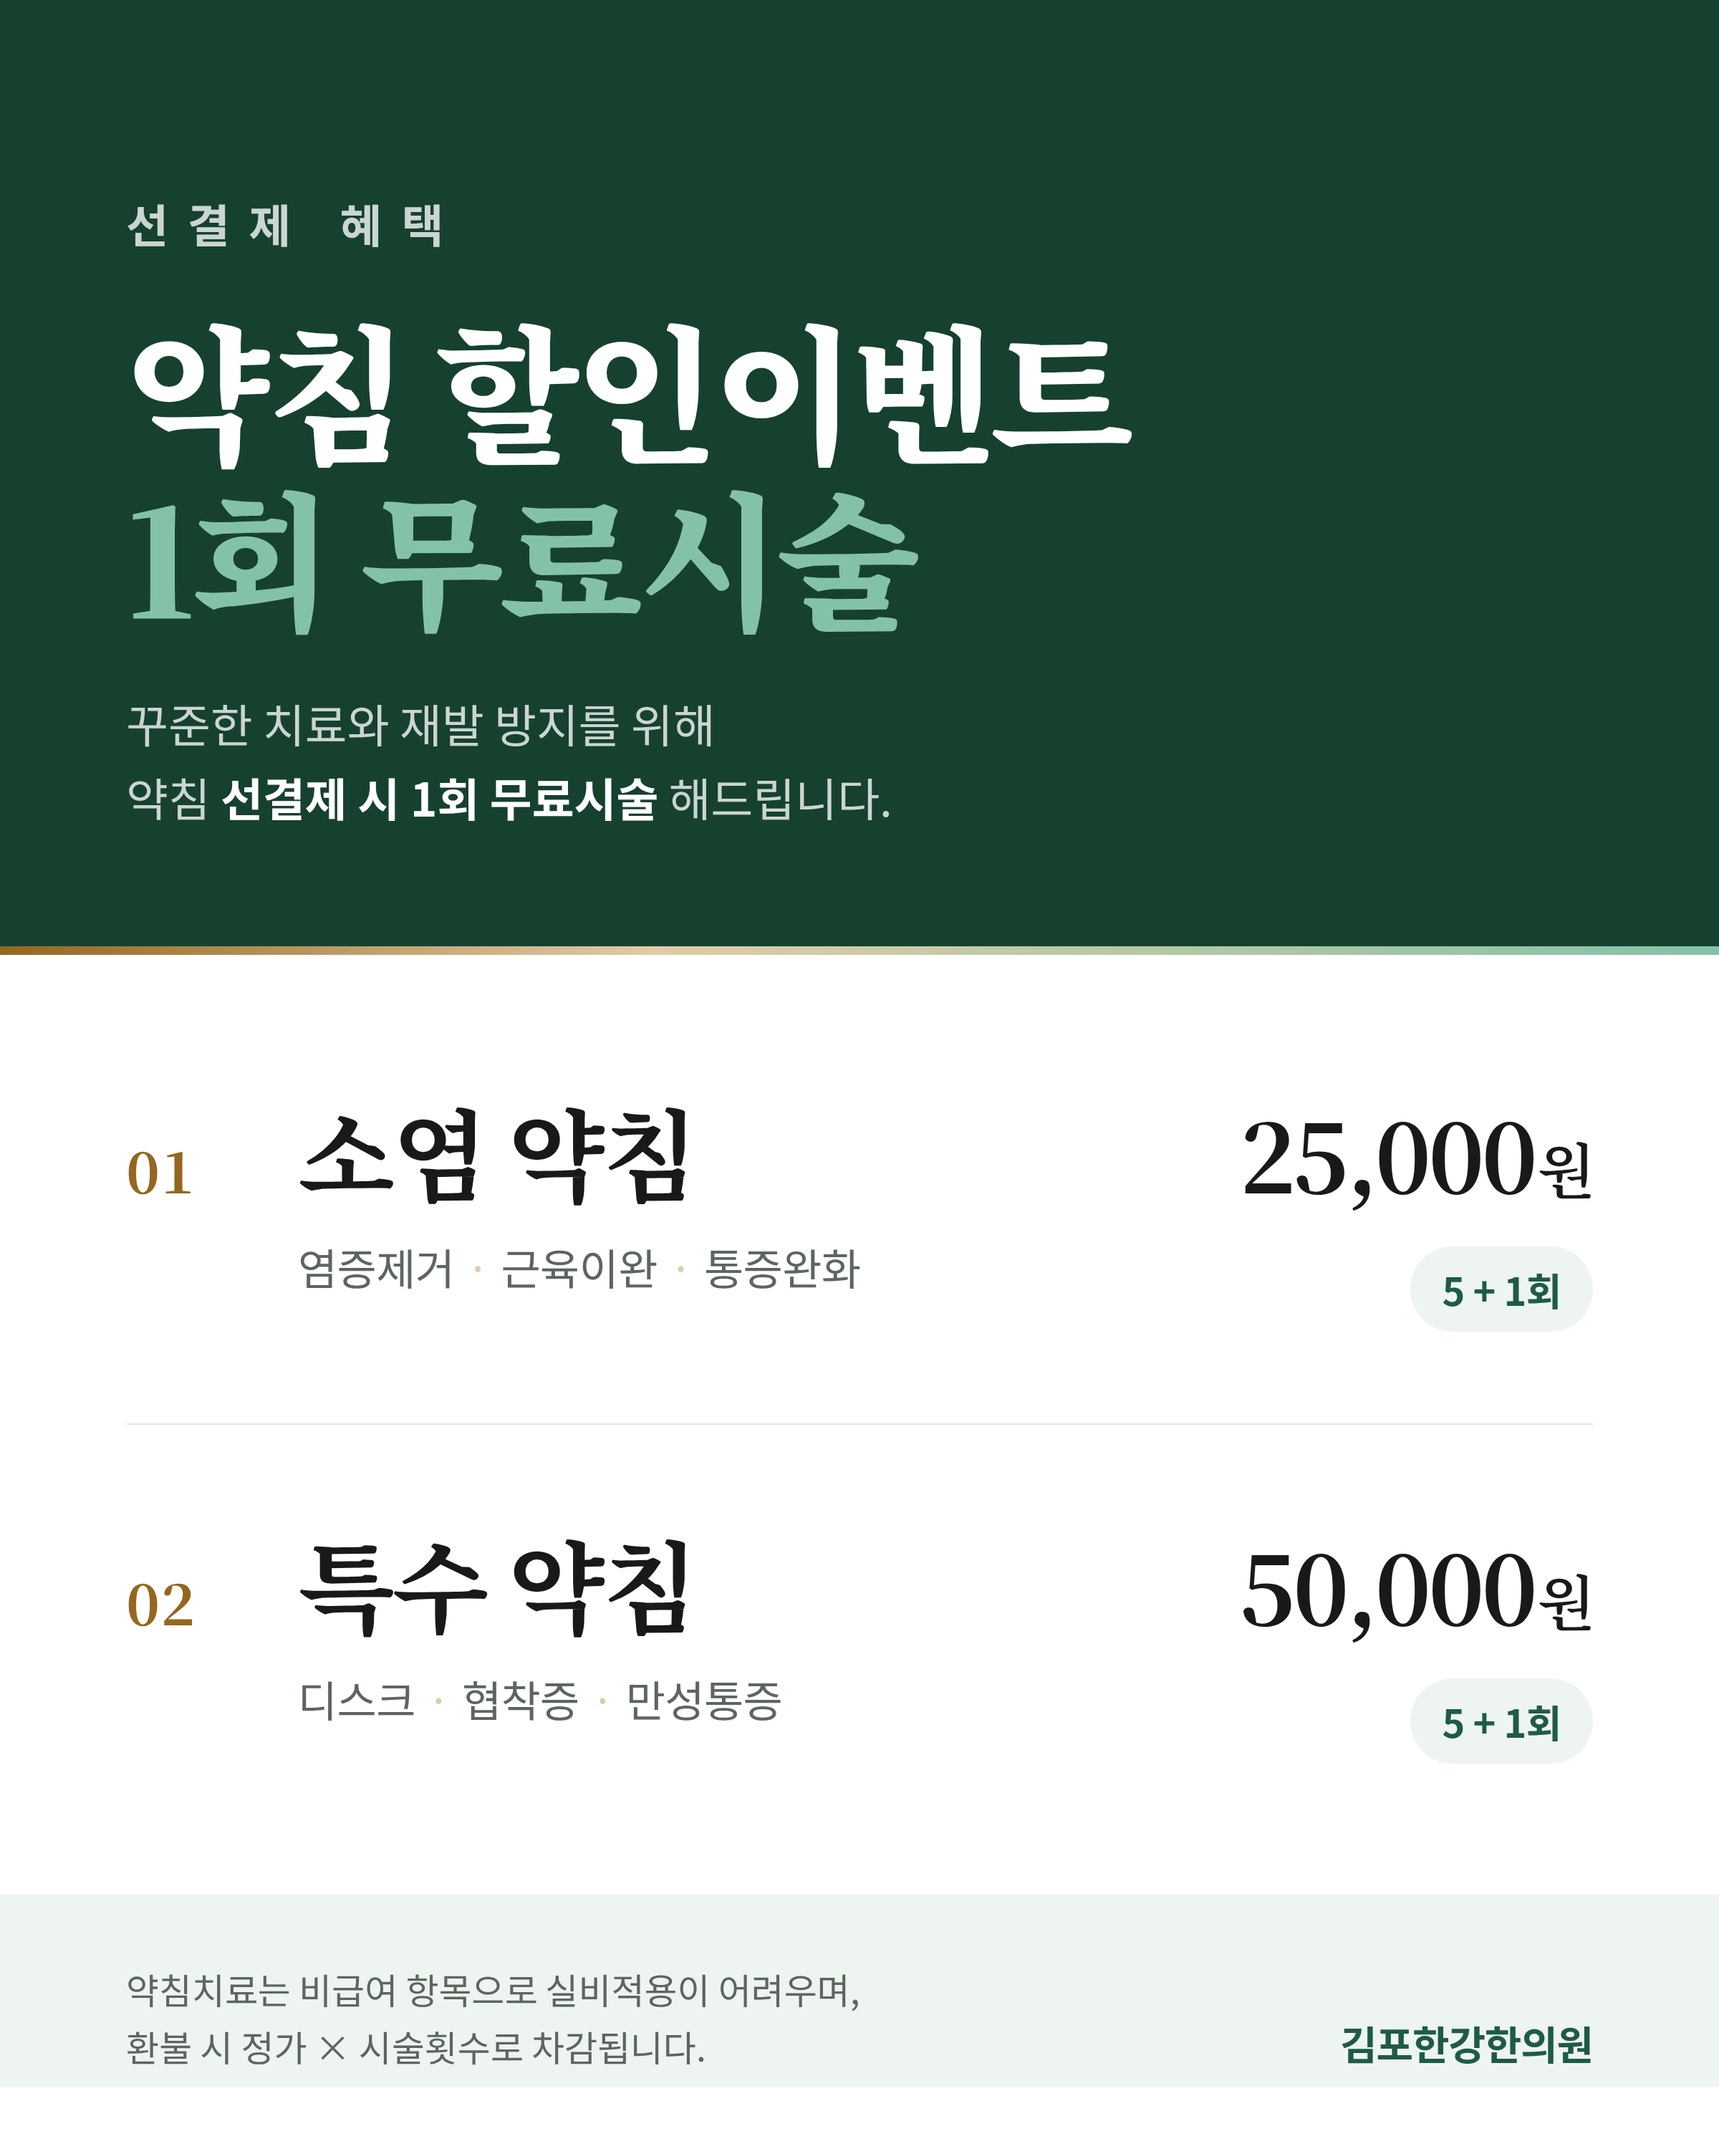
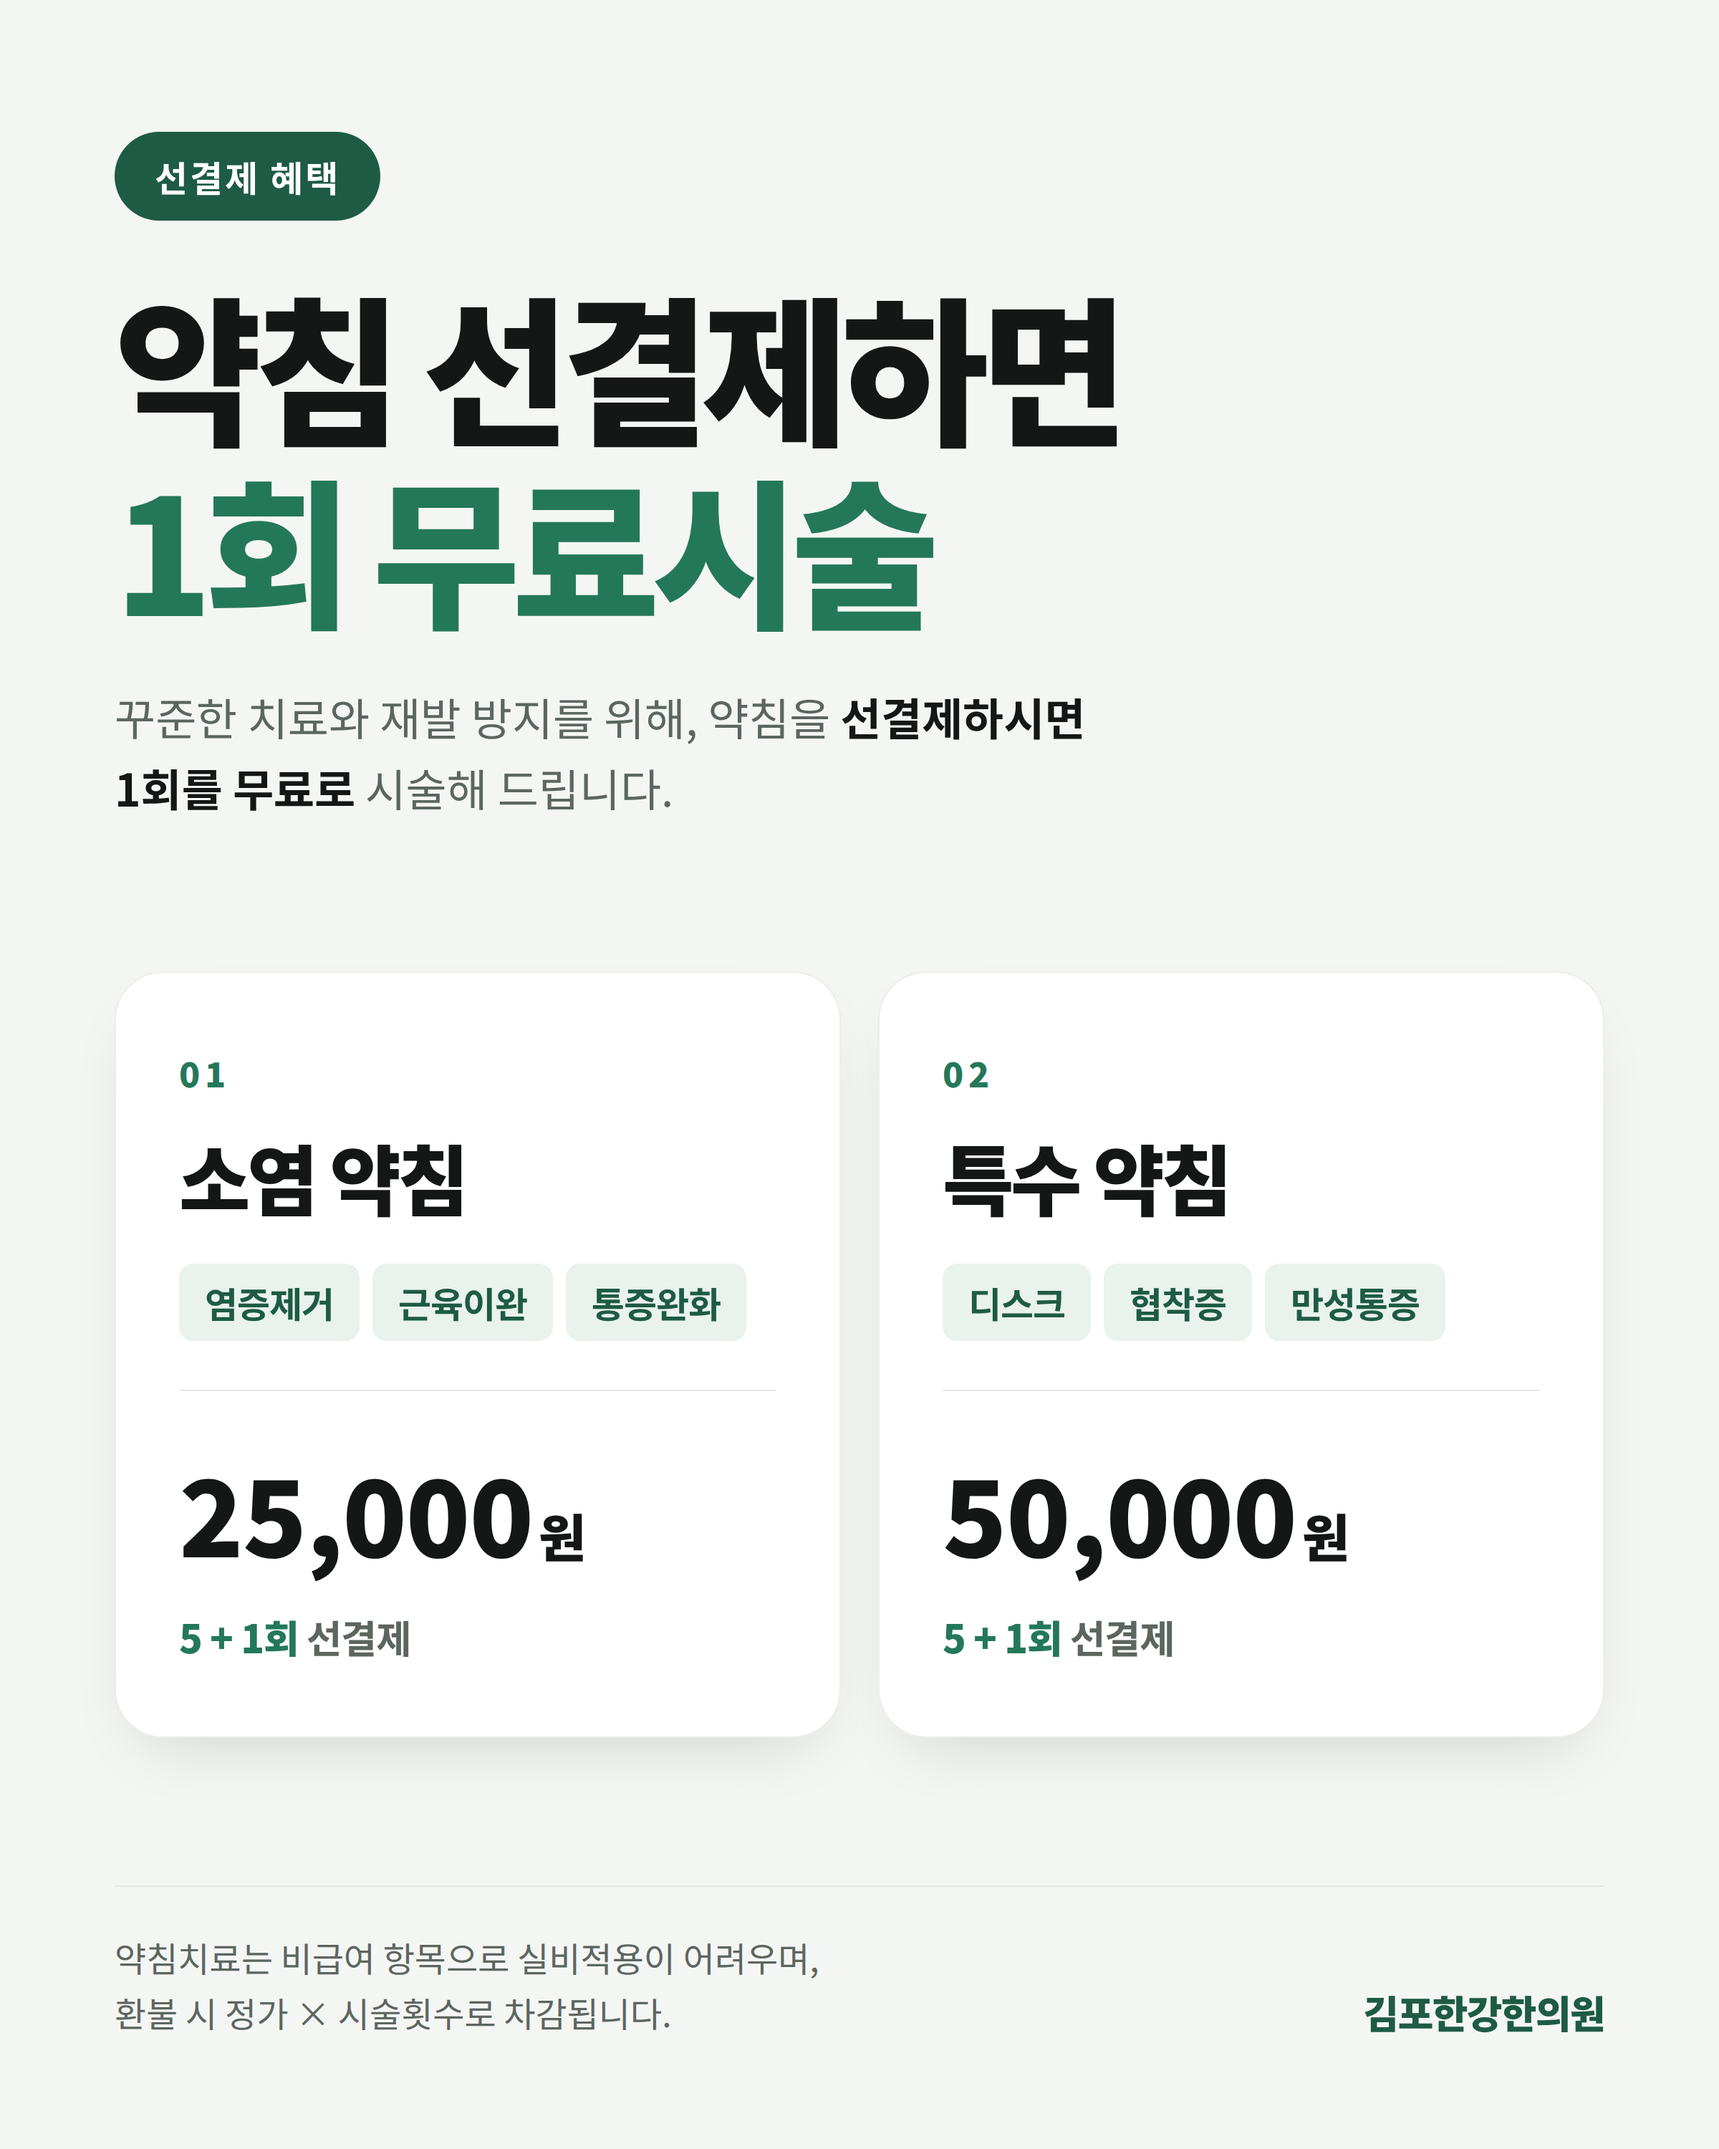
약침 안내 이미지, 고딕 한 벌로 다시 디자인
명조 제목과 짙은 옥색 판이 옛날 안내문처럼 읽혀 전부 걷어냈다.

- 글꼴은 고딕(Noto Sans KR) 한 벌. 제목은 900에 자간 -0.05em
- 시술 두 가지를 흰 카드 두 장으로 나란히, 효능은 태그로
- 배경은 밝은 회녹색, 강조는 옥색 한 가지로만

Claude-Session: https://claude.ai/code/session_017DGhBSAmjkVB1vRVfDZGb9

diff --git a/tools/poster/yakchim-event.html b/tools/poster/yakchim-event.html
@@ -2,24 +2,20 @@
 <meta charset="utf-8">
 <title>약침 할인이벤트</title>
 <style>
-  @font-face { font-family: "KRSans"; src: url("file:///root/.fonts/NotoSansKR-400.ttf"); font-weight: 400; }
-  @font-face { font-family: "KRSans"; src: url("file:///root/.fonts/NotoSansKR-700.ttf"); font-weight: 700; }
-  @font-face { font-family: "KRSerif"; src: url("file:///root/.fonts/NotoSerifKR-400.ttf"); font-weight: 400; }
-  @font-face { font-family: "KRSerif"; src: url("file:///root/.fonts/NotoSerifKR-600.ttf"); font-weight: 600; }
-  @font-face { font-family: "KRSerif"; src: url("file:///root/.fonts/NotoSerifKR-700.ttf"); font-weight: 700; }
-  @font-face { font-family: "KRSerif"; src: url("file:///root/.fonts/NotoSerifKR-900.ttf"); font-weight: 900; }
+  @font-face { font-family: "KR"; src: url("file:///root/.fonts/NotoSansKR-400.ttf"); font-weight: 400; }
+  @font-face { font-family: "KR"; src: url("file:///root/.fonts/NotoSansKR-700.ttf"); font-weight: 700; }
+  @font-face { font-family: "KR"; src: url("file:///root/.fonts/NotoSansKR-900.ttf"); font-weight: 900; }
 
   :root {
-    --paper: #ffffff;
-    --ink: #171a18;
+    --paper: #f4f6f4;
+    --card: #ffffff;
+    --ink: #141715;
     --muted: #5c665f;
-    --line: #e6e8e3;
+    --faint: #8d958f;
+    --line: #e4e8e3;
     --herb: #1e5b45;
-    --herb-deep: #16412f;
-    --herb-light: #84c2a7;
-    --tint: #eef4f0;
-    --ochre: #95661f;
-    --ochre-line: #e0cca6;
+    --herb-bright: #24785a;
+    --tint: #e9f2ec;
   }
   html { zoom: 2; }
   * { box-sizing: border-box; margin: 0; padding: 0; }
@@ -27,119 +23,100 @@
     width: 1200px; height: 1500px;
     background: var(--paper);
     color: var(--ink);
-    font-family: "KRSans", "Pretendard", system-ui, sans-serif;
+    font-family: "KR", "Pretendard", system-ui, sans-serif;
     -webkit-font-smoothing: antialiased;
     word-break: keep-all;
+    padding: 92px 80px 76px;
     display: flex; flex-direction: column;
   }
-  .serif { font-family: "KRSerif", "Noto Serif KR", serif; }
 
-  /* ── 머리말: 짙은 옥색 판 ───────────────────────────── */
-  .head {
-    background: var(--herb-deep);
-    color: #fff;
-    padding: 96px 88px 84px;
-    position: relative;
-  }
-  .head::after {
-    content: ""; position: absolute; left: 0; right: 0; bottom: 0; height: 6px;
-    background: linear-gradient(90deg, var(--ochre) 0%, var(--ochre-line) 38%, var(--herb-light) 100%);
-  }
-  .eyebrow {
-    font-size: 26px; font-weight: 700; letter-spacing: 0.42em;
-    color: var(--herb-light); text-transform: none;
+  /* ── 머리말 ────────────────────────────────────────── */
+  .badge {
+    align-self: flex-start;
+    background: var(--herb); color: #fff;
+    font-size: 25px; font-weight: 700; letter-spacing: 0.06em;
+    padding: 13px 28px; border-radius: 999px;
   }
   h1 {
+    margin-top: 36px;
+    font-size: 112px; font-weight: 900; line-height: 1.14; letter-spacing: -0.05em;
+  }
+  h1 em { font-style: normal; color: var(--herb-bright); }
+  .sub {
     margin-top: 30px;
-    font-size: 104px; font-weight: 900; line-height: 1.12; letter-spacing: -0.035em;
+    font-size: 31px; font-weight: 400; line-height: 1.6; color: var(--muted);
+    max-width: 24em;
   }
-  h1 em { font-style: normal; color: var(--herb-light); }
-  .head p {
-    margin-top: 34px;
-    font-size: 32px; line-height: 1.62; color: rgba(255, 255, 255, 0.78);
-    max-width: 20em;
-  }
-  .head p b { color: #fff; font-weight: 700; }
+  .sub b { font-weight: 700; color: var(--ink); }
 
-  /* ── 본문: 시술 두 가지 ─────────────────────────────── */
-  .list { flex: 1; min-height: 0; padding: 0 88px; display: flex; flex-direction: column; justify-content: center; }
-  .item {
-    display: grid;
-    grid-template-columns: 96px 1fr auto;
-    align-items: baseline;
-    column-gap: 24px;
-    padding: 64px 0;
+  /* ── 시술 두 가지 ──────────────────────────────────── */
+  .cards {
+    margin-top: auto; margin-bottom: auto;
+    display: grid; grid-template-columns: 1fr 1fr; gap: 26px;
   }
-  .item + .item { border-top: 1px solid var(--line); }
-
-  .num {
-    font-size: 40px; font-weight: 700; color: var(--ochre);
-    letter-spacing: 0.02em;
+  .card {
+    background: var(--card);
+    border: 1px solid #eceeea;
+    border-radius: 34px;
+    padding: 52px 44px 50px;
+    box-shadow: 0 20px 48px -22px rgba(20, 23, 21, 0.18);
+    display: flex; flex-direction: column;
   }
-  .name { font-size: 70px; font-weight: 700; letter-spacing: -0.03em; line-height: 1.1; }
-  .for {
-    margin-top: 20px;
-    font-size: 30px; line-height: 1.5; color: var(--muted); letter-spacing: -0.01em;
+  .card .no {
+    font-size: 24px; font-weight: 900; letter-spacing: 0.14em; color: var(--herb-bright);
   }
-  .for span { white-space: nowrap; }
-  .for i { font-style: normal; color: var(--ochre-line); padding: 0 8px; }
-
-  .cost { text-align: right; white-space: nowrap; }
-  .cost .won { font-size: 66px; font-weight: 700; letter-spacing: -0.03em; }
-  .cost .won u { text-decoration: none; font-size: 42px; font-weight: 600; padding-left: 2px; }
-  .cost .pack {
-    display: inline-block; margin-top: 18px;
+  .card h2 {
+    margin-top: 16px;
+    font-size: 54px; font-weight: 900; letter-spacing: -0.04em;
+  }
+  .tags { margin-top: 22px; display: flex; flex-wrap: wrap; gap: 9px; }
+  .tags span {
     background: var(--tint); color: var(--herb);
-    border-radius: 999px; padding: 10px 22px;
-    font-size: 27px; font-weight: 700; letter-spacing: -0.01em;
+    font-size: 25px; font-weight: 700; letter-spacing: -0.02em;
+    padding: 9px 18px; border-radius: 10px;
   }
+  .rule { margin: 34px 0 30px; border-top: 1px solid var(--line); }
+  .price { display: flex; align-items: baseline; gap: 4px; letter-spacing: -0.045em; }
+  .price b { font-size: 74px; font-weight: 900; }
+  .price i { font-style: normal; font-size: 36px; font-weight: 900; }
+  .pack {
+    margin-top: 14px;
+    font-size: 27px; font-weight: 700; color: var(--muted); letter-spacing: -0.02em;
+  }
+  .pack u { text-decoration: none; color: var(--herb-bright); font-weight: 900; }
 
   /* ── 꼬리말 ────────────────────────────────────────── */
   .foot {
-    background: var(--tint);
-    padding: 46px 88px 52px;
-    display: flex; align-items: flex-end; justify-content: space-between; gap: 40px;
+    display: flex; align-items: flex-end; justify-content: space-between; gap: 36px;
+    border-top: 1px solid var(--line); padding-top: 30px;
   }
-  .foot .note {
-    font-size: 25px; line-height: 1.6; color: var(--muted); max-width: 30em;
-  }
-  .foot .mark {
-    font-size: 28px; font-weight: 700; color: var(--herb); letter-spacing: -0.02em;
-    white-space: nowrap; padding-bottom: 2px;
-  }
+  .foot .note { font-size: 24px; line-height: 1.6; color: var(--muted); max-width: 30em; }
+  .foot .mark { font-size: 27px; font-weight: 900; color: var(--herb); letter-spacing: -0.03em; white-space: nowrap; }
 </style>
 
-<header class="head">
-  <p class="eyebrow">선결제 혜택</p>
-  <h1 class="serif">약침 할인이벤트<br><em>1회 무료시술</em></h1>
-  <p>꾸준한 치료와 재발 방지를 위해<br>약침 <b>선결제 시 1회 무료시술</b> 해드립니다.</p>
-</header>
+<p class="badge">선결제 혜택</p>
+<h1>약침 선결제하면<br><em>1회 무료시술</em></h1>
+<p class="sub">꾸준한 치료와 재발 방지를 위해, 약침을 <b>선결제하시면 1회를 무료로</b> 시술해 드립니다.</p>
 
-<main class="list">
-  <section class="item">
-    <div class="num serif">01</div>
-    <div>
-      <h2 class="name serif">소염 약침</h2>
-      <p class="for"><span>염증제거</span><i>·</i><span>근육이완</span><i>·</i><span>통증완화</span></p>
-    </div>
-    <div class="cost">
-      <p class="won serif">25,000<u>원</u></p>
-      <p class="pack">5 + 1회</p>
-    </div>
+<div class="cards">
+  <section class="card">
+    <p class="no">01</p>
+    <h2>소염 약침</h2>
+    <div class="tags"><span>염증제거</span><span>근육이완</span><span>통증완화</span></div>
+    <div class="rule"></div>
+    <p class="price"><b>25,000</b><i>원</i></p>
+    <p class="pack"><u>5 + 1회</u> 선결제</p>
   </section>
 
-  <section class="item">
-    <div class="num serif">02</div>
-    <div>
-      <h2 class="name serif">특수 약침</h2>
-      <p class="for"><span>디스크</span><i>·</i><span>협착증</span><i>·</i><span>만성통증</span></p>
-    </div>
-    <div class="cost">
-      <p class="won serif">50,000<u>원</u></p>
-      <p class="pack">5 + 1회</p>
-    </div>
+  <section class="card">
+    <p class="no">02</p>
+    <h2>특수 약침</h2>
+    <div class="tags"><span>디스크</span><span>협착증</span><span>만성통증</span></div>
+    <div class="rule"></div>
+    <p class="price"><b>50,000</b><i>원</i></p>
+    <p class="pack"><u>5 + 1회</u> 선결제</p>
   </section>
-</main>
+</div>
 
 <footer class="foot">
   <p class="note">약침치료는 비급여 항목으로 실비적용이 어려우며,<br>환불 시 정가 × 시술횟수로 차감됩니다.</p>

diff --git a/tools/poster/README.md b/tools/poster/README.md
@@ -6,26 +6,24 @@
 - **30% 할인(10회) 항목** — 남은 혜택은 `1회 무료시술` 하나뿐이라 표가 아니라 목록으로 짰다
 - **10회 결제 시 한 달 무제한 약침치료** 문구
 
-남긴 문구·금액은 원본 그대로다. `25,000원 (5+1회)` 의 표기만 `25,000원` + `5 + 1회` 로 나눠 배치했다.
+남긴 문구·금액은 원본 그대로다. `25,000원 (5+1회)` 의 표기만 `25,000원` + `5 + 1회 선결제` 로 나눠 배치했다.
 
 - `yakchim-event.html` — 문구·금액 수정용 원본
 - `yakchim-event.png` — 2400×3000 (1200×1500 @2x). 4:5 세로라 인쇄물·인스타그램·카카오톡에 그대로 쓸 수 있다
 
-색과 글꼴은 홈페이지를 따랐다. 옥색(`--herb-deep`)·황토색(`--ochre`)은 `src/app/globals.css` 의 토큰과 같은 값이고,
-제목은 명조(Noto Serif KR), 본문은 고딕(Noto Sans KR)이다.
+전부 고딕(Noto Sans KR)이다. 명조는 쓰지 않는다 — 한의원 안내물이 옛날 느낌으로 읽히기 쉬워서다.
+큰 제목은 900(Black)에 자간을 -0.05em 까지 좁혀 요즘 톤을 냈다.
+옥색은 `src/app/globals.css` 의 `--herb` 계열과 같은 값이다.
 
 ## 다시 뽑는 법
 
 한글 폰트가 `~/.fonts` 에 있어야 한다. 없으면 먼저 받는다.
 
 ```bash
-for f in "Noto+Sans+KR:400,700,900 NotoSansKR" "Noto+Serif+KR:400,600,700,900 NotoSerifKR"; do
-  set -- $f
-  curl -s "https://fonts.googleapis.com/css?family=$1&subset=korean" -A "" -o /tmp/kr.css
-  i=0; for w in $(echo "$1" | cut -d: -f2 | tr ',' ' '); do
-    i=$((i+1)); u=$(grep -o "https://[^)]*" /tmp/kr.css | sed -n "${i}p")
-    mkdir -p ~/.fonts && curl -s -o ~/.fonts/$2-$w.ttf "$u"
-  done
+curl -s "https://fonts.googleapis.com/css?family=Noto+Sans+KR:400,700,900&subset=korean" -A "" -o /tmp/kr.css
+mkdir -p ~/.fonts && i=0; for w in 400 700 900; do
+  i=$((i+1)); u=$(grep -o "https://[^)]*" /tmp/kr.css | sed -n "${i}p")
+  curl -s -o ~/.fonts/NotoSansKR-$w.ttf "$u"
 done && fc-cache -f
 ```
 
